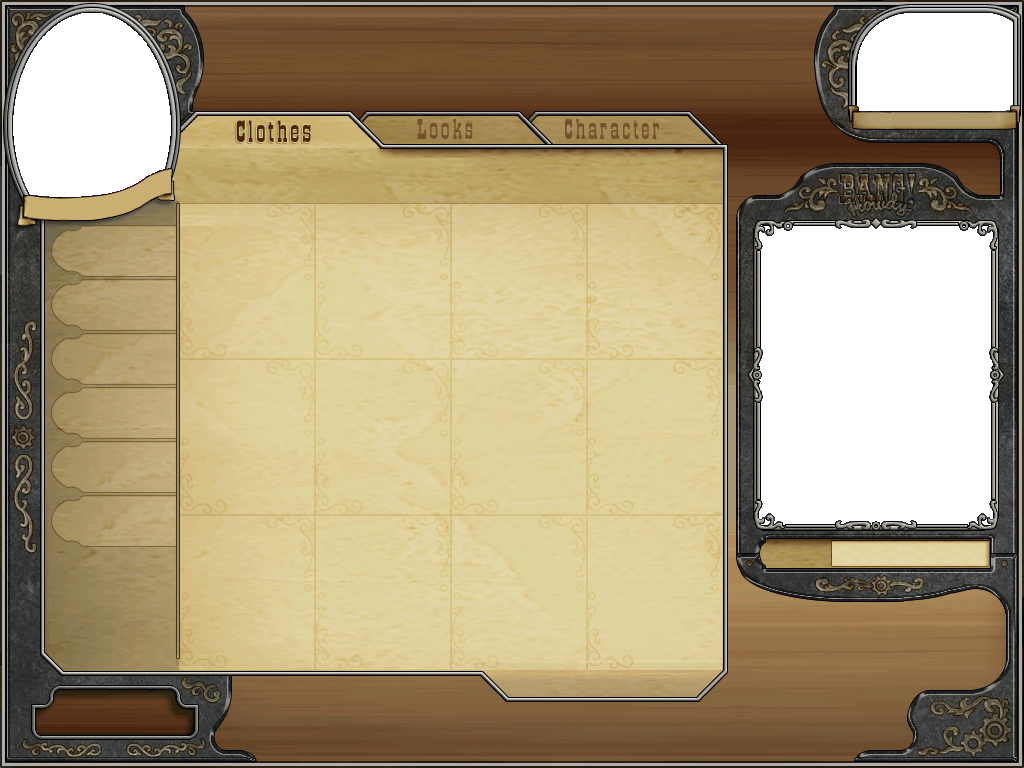
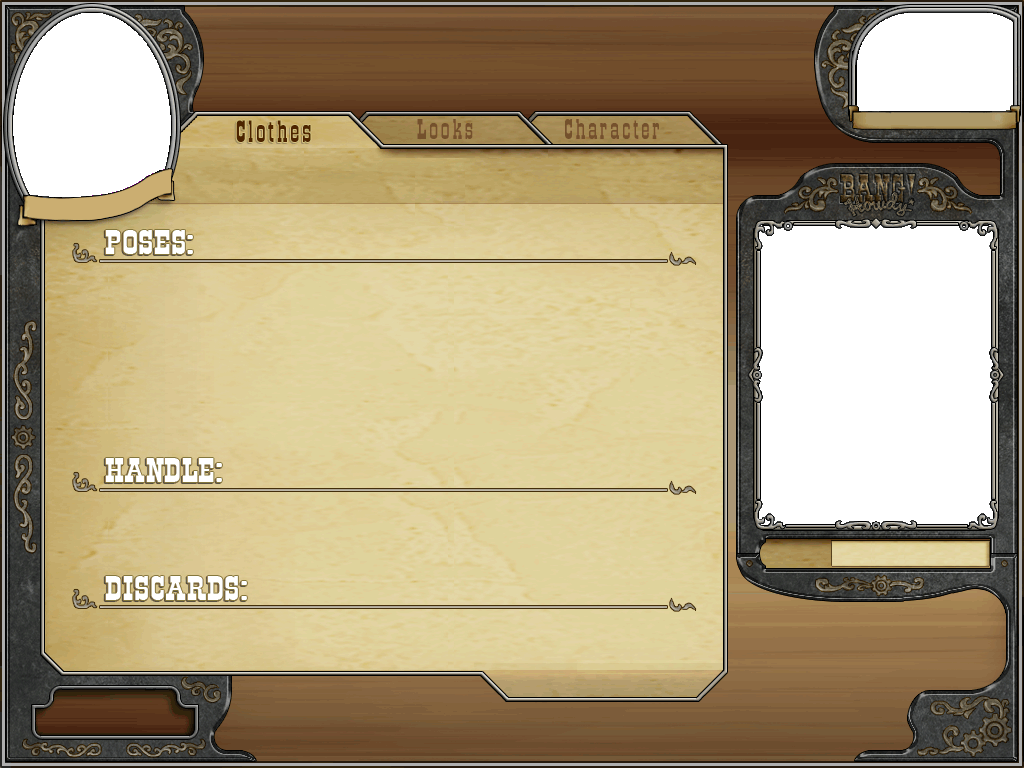
Prettied up the new "character" panel at the barber.

Changed region(s): [[0.0312, 0.25, 0.6875, 0.875], [0.5625, 0.4375, 0.5938, 0.4688], [0.4375, 0.4375, 0.4688, 0.4688]]

diff --git a/src/java/com/threerings/bang/avatar/client/EditCharacterView.java b/src/java/com/threerings/bang/avatar/client/EditCharacterView.java
@@ -15,6 +15,7 @@ import com.jmex.bui.layout.AbsoluteLayout;
 import com.jmex.bui.layout.GroupLayout;
 import com.jmex.bui.layout.TableLayout;
 import com.jmex.bui.util.Point;
+import com.jmex.bui.util.Rectangle;
 
 import com.threerings.util.MessageBundle;
 
@@ -44,15 +45,8 @@ public class EditCharacterView extends BContainer
         // add a display of our current look
         add(new PickLookView(ctx, true), new Point(707, 135));
 
-        // everything else needs to go in the main content area
-        BContainer contents = new BContainer(
-            GroupLayout.makeVert(GroupLayout.NONE, GroupLayout.CENTER,
-                GroupLayout.STRETCH));
-        contents.setStyleClass("barber_char_content");
-        add(contents, WearClothingView.CONTENT_RECT);
-
         // create the UI for configuring our poses
-        contents.add(createHeader("poses"));
+        add(new BLabel(_msgs.get("m.poses_tip"), "barber_char_tip"), POSES_TIP);
 
         PlayerObject user = ctx.getUserObject();
         BContainer poses = new BContainer(new TableLayout(2, 5, 5));
@@ -69,23 +63,24 @@ public class EditCharacterView extends BContainer
             });
             poses.add(looks);
         }
-        contents.add(poses);
-
-        contents.add(new Spacer(25, 25));
+        add(poses, POSES_RECT);
 
         // create the UI for changing our handle
-        contents.add(createHeader("handle"));
+        add(new BLabel(_msgs.get("m.handle_tip"), "barber_char_tip"),
+            HANDLE_TIP);
 
         BContainer ncont = GroupLayout.makeHBox(GroupLayout.LEFT);
         ncont.add(new BLabel(_msgs.get("m.handle")));
         ncont.add(_handle = new BTextField());
         _handle.setPreferredWidth(150);
+        ncont.add(new Spacer(5, 5));
         ncont.add(new BLabel(_msgs.get("m.handle_cost"), "barber_char_cost"));
         MoneyLabel cost = new MoneyLabel(ctx);
         cost.setMoney(BarberCodes.HANDLE_CHANGE_SCRIP_COST,
             BarberCodes.HANDLE_CHANGE_COIN_COST, false);
         cost.setStyleClass("m.barber_char_cost");
         ncont.add(cost);
+        ncont.add(new Spacer(5, 5));
         ncont.add(_buy = new BButton(_msgs.get("m.buy_handle"), "buy_handle"));
         _buy.addListener(new ActionListener() {
             public void actionPerformed (ActionEvent event) {
@@ -93,7 +88,7 @@ public class EditCharacterView extends BContainer
             }
         });
         _buy.setEnabled(false);
-        contents.add(ncont);
+        add(ncont, HANDLE_RECT);
 
         // configure our handle text field with standard validators
         _handle.setDocument(new CreateAvatarView.HandleDocument());
@@ -159,4 +154,16 @@ public class EditCharacterView extends BContainer
 
     protected BTextField _handle;
     protected BButton _buy;
+
+    protected static final Point POSES_TIP = new Point(170, 450);
+    protected static final Rectangle POSES_RECT =
+        new Rectangle(100, 250, 500, 180);
+
+    protected static final Point HANDLE_TIP = new Point(200, 220);
+    protected static final Rectangle HANDLE_RECT =
+        new Rectangle(100, 160, 500, 40);
+
+    protected static final Point DISCARDS_TIP = new Point(250, 75);
+    protected static final Rectangle DISCARDS_RECT =
+        new Rectangle(100, 50, 200, 100);
 }

diff --git a/src/java/com/threerings/bang/avatar/client/NewLookView.java b/src/java/com/threerings/bang/avatar/client/NewLookView.java
@@ -88,6 +88,7 @@ public class NewLookView extends BContainer
         _buy.setStyleClass("big_button");
 
         _palette = new IconPalette(null, 4, 3, ChoiceIcon.ICON_SIZE, 1);
+        _palette.setPaintBackground(true);
         _palette.setAllowsEmptySelection(false);
         add(_palette, new Rectangle(139, 5, ChoiceIcon.ICON_SIZE.width*4,
                                     ChoiceIcon.ICON_SIZE.height*3+27));
@@ -131,6 +132,7 @@ public class NewLookView extends BContainer
             }
         }
         String[] tarray = tabs.toArray(new String[tabs.size()]);
+        final BImage blankbg = _ctx.loadImage("ui/barber/tabs_back.png");
         final BImage tabbg = _ctx.loadImage("ui/barber/side_new_look.png");
         final BImage malebg = isMale ?
             _ctx.loadImage("ui/barber/side_new_look_male.png") : null;
@@ -138,6 +140,7 @@ public class NewLookView extends BContainer
             ctx, true, "ui/barber/tab_", tarray, 54, 30) {
             protected void wasAdded () {
                 super.wasAdded();
+                blankbg.reference();
                 tabbg.reference();
                 if (malebg != null) {
                     malebg.reference();
@@ -145,6 +148,7 @@ public class NewLookView extends BContainer
             }
             protected void wasRemoved () {
                 super.wasRemoved();
+                blankbg.release();
                 tabbg.release();
                 if (malebg != null) {
                     malebg.release();
@@ -152,8 +156,10 @@ public class NewLookView extends BContainer
             }
             protected void renderBackground (Renderer renderer) {
                 super.renderBackground(renderer);
-                tabbg.render(renderer, 0, _height - tabbg.getHeight() - 42,
-                    _alpha);
+                blankbg.render(
+                    renderer, -5, _height - blankbg.getHeight() - 5, _alpha);
+                tabbg.render(
+                    renderer, 0, _height - tabbg.getHeight() - 42, _alpha);
                 if (malebg != null) {
                     malebg.render(
                         renderer, 0, _height - malebg.getHeight() - 42,

diff --git a/src/java/com/threerings/bang/avatar/client/WearClothingView.java b/src/java/com/threerings/bang/avatar/client/WearClothingView.java
@@ -45,20 +45,25 @@ public class WearClothingView extends BContainer
         for (int ii = 0; ii < tabs.length; ii++) {
             tabs[ii] = AvatarLogic.SLOTS[ii].name;
         }
+        final BImage blankbg = ctx.loadImage("ui/barber/tabs_back.png");
         final BImage tabbg = ctx.loadImage("ui/barber/side_change_clothes.png");
         add(new HackyTabs(ctx, true, "ui/barber/tab_", tabs, 54, 30) {
             protected void wasAdded () {
                 super.wasAdded();
+                blankbg.reference();
                 tabbg.reference();
             }
             protected void wasRemoved () {
                 super.wasRemoved();
+                blankbg.release();
                 tabbg.release();
             }
             protected void renderBackground (Renderer renderer) {
                 super.renderBackground(renderer);
-                tabbg.render(renderer, 0, _height - tabbg.getHeight() - 42,
-                    _alpha);
+                blankbg.render(
+                    renderer, -5, _height - blankbg.getHeight() - 5, _alpha);
+                tabbg.render(
+                    renderer, 0, _height - tabbg.getHeight() - 42, _alpha);
             }
             protected void tabSelected (int index) {
                 setSlot(index);

diff --git a/src/java/com/threerings/bang/avatar/client/ArticlePalette.java b/src/java/com/threerings/bang/avatar/client/ArticlePalette.java
@@ -24,6 +24,7 @@ public class ArticlePalette extends IconPalette
                            PickLookView view)
     {
         super(inspector, 4, 3, ItemIcon.ICON_SIZE, 1);
+        setPaintBackground(true);
         _ctx = ctx;
         _view = view;
     }
